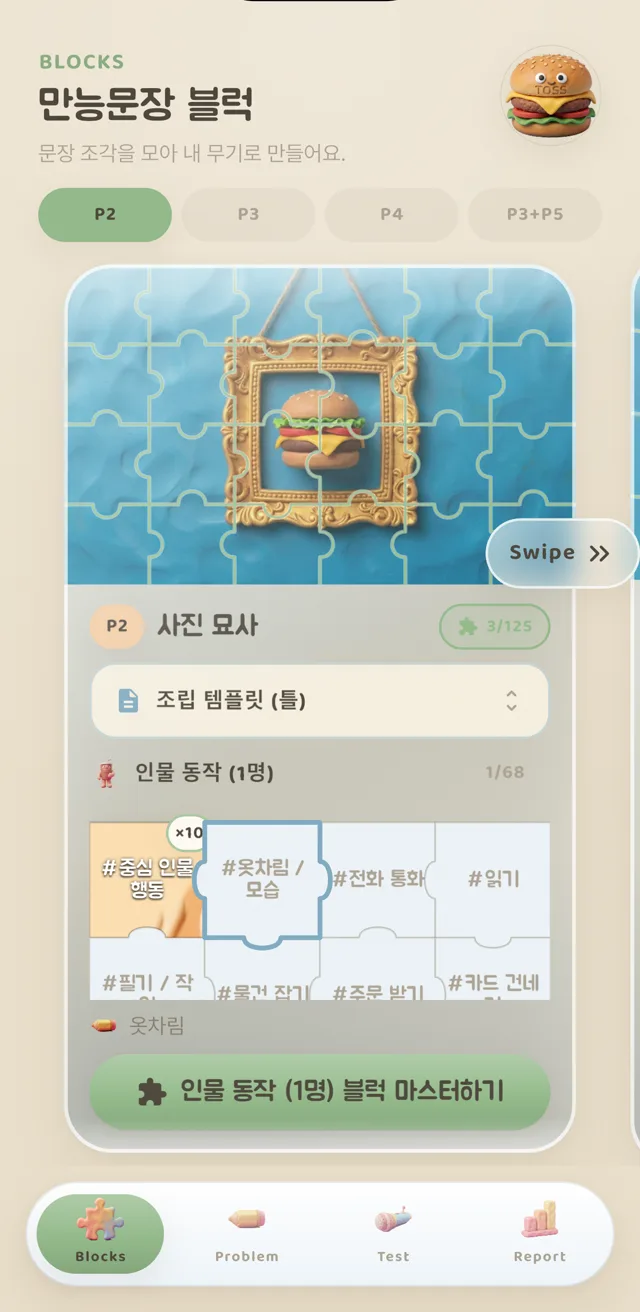
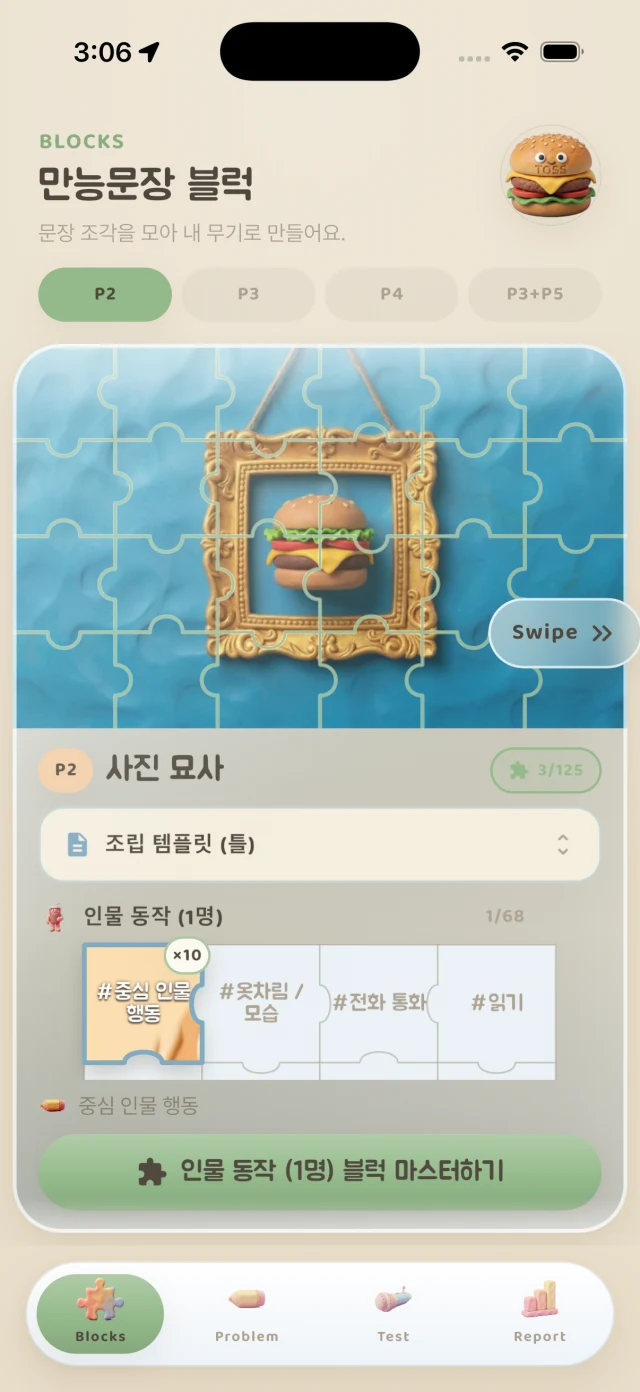
site: iOS launch state, new 1.1.4 screenshots, real-score proof section
The site still read as pre-launch ("iOS & Android 출시 준비 중", email
signup) even though iOS is live. Switch it to a download page and add
the evidence section.

- Store badges: App Store (live, id6788353969) in the hero, the nav CTA
  and the closing CTA; Google Play shown as an explicit "출시 준비 중"
  state rather than a dead link, with an opt-in mail link at the bottom.
- Screenshots refreshed to the 1.1.4 build (blocks / model answer /
  shadowing / exam). Intrinsic size changed 640x1312 -> 640x1392, so the
  width+height attributes moved with them to avoid layout shift.
- New #proof section built on a real TOEIC Speaking score report:
  IM3 (130) on 2026-06-13 -> AL (160) on 2026-06-21, an 8-day gap.
  The 수험번호 on both rows are redacted, and the capture is cropped to
  the score table so no YBM/ETS logo implies endorsement. Copy states
  the result in the site's own voice and carries a "results vary / no
  score guarantee" note. No testimonial quotes were invented; there is a
  marked placeholder for real ones.

diff --git a/index.html b/index.html
@@ -726,6 +726,58 @@
   .reveal { opacity: 0; transform: translateY(22px); transition: opacity .7s var(--ease-settle), transform .7s var(--ease-settle); }
   .reveal.in { opacity: 1; transform: none; }
   @media (prefers-reduced-motion: reduce) { .reveal { opacity: 1; transform: none; transition: none; } }
+  /* ---- Store badges (iOS live · Play coming soon) ---- */
+  .store-badges { display: flex; flex-wrap: wrap; gap: 12px; align-items: center; margin-top: 22px; }
+  .badge-store {
+    display: inline-flex; align-items: center; gap: 11px;
+    padding: 11px 18px 11px 16px; border-radius: 16px;
+    background: linear-gradient(160deg, #4a443a, #322e28);
+    color: #FDF9F2; text-decoration: none; border: 1px solid rgba(0,0,0,.28);
+    box-shadow: 0 8px 18px -8px rgba(78,72,61,.55), inset 0 1px 1px rgba(255,255,255,.16);
+    transition: transform .22s var(--ease-playful), box-shadow .22s ease;
+  }
+  .badge-store:hover { transform: translateY(-2px) scale(1.02); box-shadow: 0 14px 26px -10px rgba(78,72,61,.6), inset 0 1px 1px rgba(255,255,255,.2); }
+  .badge-store:active { transform: translateY(1px) scale(.99); }
+  .badge-store svg { flex: none; }
+  .badge-store .bs-txt { display: flex; flex-direction: column; line-height: 1.12; text-align: left; }
+  .badge-store .bs-sm { font-size: .68rem; letter-spacing: .02em; opacity: .82; }
+  .badge-store .bs-lg { font-family: "Baloo 2", sans-serif; font-weight: 700; font-size: 1.06rem; }
+  /* Play: not launched yet — visibly inert, not a dead link */
+  .badge-store.soon {
+    background: var(--paper); color: var(--ink-soft);
+    border: 1px dashed rgba(78,72,61,.28); box-shadow: none; cursor: default;
+  }
+  .badge-store.soon:hover { transform: none; box-shadow: none; }
+  .badge-store.soon .bs-lg { color: var(--ink); }
+
+  /* ---- Proof: real score report ---- */
+  .proof-grid { display: grid; grid-template-columns: minmax(0, .92fr) minmax(0, 1fr); gap: clamp(28px, 5vw, 64px); align-items: center; }
+  @media (max-width: 860px) { .proof-grid { grid-template-columns: 1fr; } }
+  .proof-shot {
+    position: relative; background: var(--paper-hi); padding: 14px; border-radius: 20px;
+    border: 1px solid var(--line); rotate: -1.4deg;
+    box-shadow: 0 22px 44px -20px rgba(78,72,61,.42), inset 0 1px 1px rgba(255,255,255,.7);
+  }
+  .proof-shot img { display: block; width: 100%; height: auto; border-radius: 12px; }
+  .proof-shot::before {
+    content: "실제 성적표"; position: absolute; top: -14px; left: 50%; translate: -50% 0;
+    font-family: "Nanum Pen Script", cursive; font-size: 1.15rem; color: var(--ink);
+    background: var(--mark); padding: 2px 16px; border-radius: 6px; rotate: -1.5deg;
+    box-shadow: 0 4px 10px -5px rgba(78,72,61,.5);
+  }
+  .delta-row { display: flex; flex-wrap: wrap; gap: 12px; margin: 22px 0 6px; }
+  .delta {
+    flex: 1 1 128px; background: var(--card); border: 1px solid var(--line);
+    border-radius: var(--radius-sm); padding: 14px 16px;
+    box-shadow: 0 8px 18px -14px rgba(78,72,61,.5);
+  }
+  .delta .dn { font-family: "Baloo 2", sans-serif; font-weight: 800; font-size: 1.72rem; color: var(--onion-dark); line-height: 1.1; }
+  .delta .dl { font-size: .84rem; color: var(--ink-soft); margin-top: 3px; }
+  .grade-jump { display: inline-flex; align-items: center; gap: 10px; flex-wrap: wrap; margin-top: 6px; }
+  .grade-chip { font-family: "Baloo 2", sans-serif; font-weight: 800; padding: 5px 13px; border-radius: 999px; font-size: .95rem; }
+  .grade-chip.from { background: var(--paper); color: var(--ink-soft); border: 1px solid var(--line); }
+  .grade-chip.to { background: var(--lettuce); color: #27351f; box-shadow: 0 6px 14px -8px rgba(147,185,138,.9); }
+  .proof-note { font-size: .82rem; color: var(--ink-muted); margin-top: 18px; line-height: 1.6; }
 </style>
 <noscript><style>.reveal { opacity: 1 !important; transform: none !important; }</style></noscript>
 </head>
@@ -736,11 +788,12 @@
   <div class="wrap nav-in">
     <a class="brand" href="/"><img src="/assets/logo.webp" width="36" height="36" alt="토스버거 로고" fetchpriority="high">토스버거</a>
     <nav class="nav-links" aria-label="주요">
+      <a class="hide-sm" href="#proof">실제 성적</a>
       <a class="hide-sm" href="#method">학습 방법</a>
       <a class="hide-sm" href="#blocks">블록</a>
       <a class="hide-sm" href="#exam">실전·진단</a>
       <a class="hide-sm" href="#pricing">요금</a>
-      <a class="nav-cta" href="mailto:support@tosburger.com?subject=토스버거 출시 소식 받기">출시 소식 받기</a>
+      <a class="nav-cta" href="https://apps.apple.com/kr/app/id6788353969">App Store에서 받기</a>
     </nav>
   </div>
 </header>
@@ -755,9 +808,20 @@
         <p class="lead">즉흥 영작은 그만. 시험에 실제로 나오는 정형 표현 ‘조각’을 외우고, 상황에 맞게 조립해 말하는 법을 훈련하세요.</p>
         <div class="cta">
           <a class="btn btn-primary" href="#method">학습 방법 보기</a>
-          <a class="btn btn-ghost" href="#exam">실전·AI 진단</a>
+          <a class="btn btn-ghost" href="#proof">실제 성적 보기</a>
         </div>
-        <p class="note"><span class="pill"><span class="dot"></span>iOS &amp; Android 출시 준비 중</span></p>
+        <div class="store-badges">
+          <a class="badge-store" href="https://apps.apple.com/kr/app/id6788353969"
+             aria-label="App Store에서 토스버거 다운로드">
+            <svg width="24" height="24" viewBox="0 0 24 24" fill="currentColor" aria-hidden="true"><path d="M16.36 12.78c.02-2.2 1.8-3.26 1.88-3.31-1.02-1.5-2.61-1.7-3.18-1.72-1.35-.14-2.64.8-3.33.8-.69 0-1.75-.78-2.87-.76-1.48.02-2.84.86-3.6 2.18-1.53 2.66-.39 6.6 1.1 8.76.73 1.06 1.6 2.25 2.74 2.2 1.1-.04 1.52-.71 2.85-.71 1.33 0 1.7.71 2.87.69 1.18-.02 1.93-1.08 2.65-2.14.84-1.23 1.18-2.42 1.2-2.48-.03-.01-2.3-.88-2.32-3.5zM14.2 6.02c.6-.74 1.01-1.75.9-2.77-.87.04-1.94.59-2.57 1.31-.56.64-1.06 1.68-.93 2.67.97.08 1.98-.49 2.6-1.21z"/></svg>
+            <span class="bs-txt"><span class="bs-sm">지금 다운로드</span><span class="bs-lg">App Store</span></span>
+          </a>
+          <span class="badge-store soon" aria-label="Google Play 출시 준비 중">
+            <svg width="22" height="22" viewBox="0 0 24 24" fill="currentColor" aria-hidden="true"><path d="M3.6 2.3c-.24.25-.38.64-.38 1.15v17.1c0 .51.14.9.38 1.15l.06.06 9.58-9.58v-.23L3.66 2.24l-.06.06zm12.85 6.4L13.9 10.3v.01L4.32 1.96l.14-.08 11.99 6.82zM4.46 22.12l9.44-9.44 2.55 2.55-11.99 6.82-.14-.07zm12.9-6.34l-2.7-2.7 2.7-2.7 3.13 1.78c.9.51.9 1.33 0 1.84l-3.13 1.78z"/></svg>
+            <span class="bs-txt"><span class="bs-sm">Google Play</span><span class="bs-lg">출시 준비 중</span></span>
+          </span>
+        </div>
+        <p class="note"><span class="pill"><span class="dot"></span>iOS 출시 완료 · Android 곧 출시</span></p>
       </div>
       <div class="fig">
         <span class="blob a" aria-hidden="true"></span>
@@ -765,7 +829,7 @@
         <span class="chip-float c1" aria-hidden="true"><span class="pz">🧩</span> 조각 암기</span>
         <span class="chip-float c2" aria-hidden="true"><span class="pz">🍔</span> 조립 완성</span>
         <div class="device float">
-          <img src="/assets/shot-blocks.webp" width="640" height="1312" fetchpriority="high"
+          <img src="/assets/shot-blocks.webp" width="640" height="1392" fetchpriority="high"
                alt="토스버거 앱의 블록 화면 — 파트별 탭과 만능문장 블록 카드, 퍼즐 조각으로 표현된 표현 인벤토리">
         </div>
       </div>
@@ -794,6 +858,51 @@
         <h2>오래 끄는 시험이 아닙니다</h2>
         <p class="philo-lead">시험 전략을 세우고 신박한 스크립트를 짤 시간은 없어요. <strong>노래처럼 입에 익히고, 한두 달 안에 졸업하세요.</strong></p>
         <p class="philo-kicker">모두가 똑같은 답을 해도 — <span class="hl-in">입에 익은 듯 자연스러우면 만점</span>을 주는 시험이니까요.</p>
+      </div>
+    </div>
+  </section>
+
+  <section id="proof" class="band">
+    <div class="wrap">
+      <div class="sec-head">
+        <span class="eyebrow">결과로 증명합니다</span>
+        <h2>8일 만에 <span class="hl">IM3 → AL</span></h2>
+        <p>조각을 외우고 조립하는 훈련만으로, 재응시 한 번에 등급이 올라갔습니다.</p>
+      </div>
+
+      <div class="proof-grid">
+        <div class="proof-shot reveal">
+          <img src="/assets/proof-score.webp" width="900" height="586" loading="lazy"
+               alt="실제 토익스피킹 성적 조회 화면 — 2026년 6월 13일 Intermediate Mid 3(130점), 8일 뒤인 6월 21일 Advanced Low(160점). 수험번호는 가려져 있다.">
+        </div>
+
+        <div class="reveal">
+          <span class="tag">Real Score Report</span>
+          <h2 style="margin-top:10px;">130점에서 160점으로</h2>
+          <p class="lead">2026년 6월 13일 <strong>Intermediate Mid 3 (130점)</strong>.
+             그리고 8일 뒤인 6월 21일, 같은 응시자가 <strong>Advanced Low (160점)</strong>.
+             그 사이에 한 건 새 스크립트를 짠 게 아니라, <strong>이미 있는 조각을 입에 붙이고 조립한 것</strong>뿐이었어요.</p>
+
+          <div class="grade-jump">
+            <span class="grade-chip from">IM3 · 130</span>
+            <span aria-hidden="true" style="color:var(--ink-muted);font-weight:800;">→</span>
+            <span class="grade-chip to">AL · 160</span>
+          </div>
+
+          <div class="delta-row">
+            <div class="delta"><div class="dn">8일</div><div class="dl">두 시험 사이<br>실제 간격</div></div>
+            <div class="delta"><div class="dn">+30</div><div class="dl">Speaking Score<br>상승 폭</div></div>
+            <div class="delta"><div class="dn">1등급</div><div class="dl">IM3 → AL<br>등급 상승</div></div>
+          </div>
+
+          <!-- 실제 사용자 후기를 받으면 이 자리에 그대로 넣으세요.
+               지어낸 후기는 넣지 않았습니다 (아래 성적표만 실제 기록입니다). -->
+
+          <p class="proof-note">
+            위 이미지는 실제 성적 조회 화면을 그대로 캡처한 것이며, 개인정보 보호를 위해 수험번호만 가렸습니다.
+            학습 효과는 응시자의 기존 실력·학습량에 따라 다를 수 있으며, 특정 점수를 보장하지 않습니다.
+          </p>
+        </div>
       </div>
     </div>
   </section>
@@ -834,8 +943,8 @@
     <div class="wrap feature">
       <div class="fig">
         <div class="device">
-          <img src="/assets/shot-question.webp" width="640" height="1312" loading="lazy"
-               alt="사진 묘사 문제 화면 — 클레이 회의실 그림과 함께, 도입·사람·사물·마무리 블록으로 조립된 모범답변">
+          <img src="/assets/shot-question.webp" width="640" height="1392" loading="lazy"
+               alt="정기시험 복원 세트의 모범답안 화면 — 클레이 화원 그림 문제와 함께, 도입·인물·사물·마무리 블록으로 조립된 답변">
         </div>
       </div>
       <div>
@@ -869,7 +978,7 @@
     <div class="wrap feature rev">
       <div class="fig">
         <div class="device">
-          <img src="/assets/shot-shadowing.webp" width="640" height="1312" loading="lazy"
+          <img src="/assets/shot-shadowing.webp" width="640" height="1392" loading="lazy"
                alt="블록 섀도잉 드릴 화면 — 억양 곡선과 단어별 한글 발음 표기, 손글씨 메모 힌트가 함께 표시된다">
         </div>
         
@@ -923,7 +1032,7 @@
       <div class="feature">
         <div class="fig">
           <div class="device">
-            <img src="/assets/shot-exam.webp" width="640" height="1275" loading="lazy"
+            <img src="/assets/shot-exam.webp" width="640" height="1392" loading="lazy"
                  alt="실전 모의고사 화면 — 어두운 시험 모드에서 GET READY 준비 타이머와 클레이 그림 문제 카드가 보인다">
           </div>
         </div>
@@ -1056,9 +1165,20 @@
   <section>
     <div class="wrap">
       <div class="final reveal">
-        <h2>출시 소식을 가장 먼저 받아보세요</h2>
-        <p>토스버거는 iOS와 Android 출시를 준비하고 있어요. 준비되면 바로 알려드릴게요.</p>
-        <a class="btn btn-primary" href="mailto:support@tosburger.com?subject=토스버거 출시 소식 받기">출시 소식 받기</a>
+        <h2>지금 App Store에서 받으세요</h2>
+        <p>토스버거는 iOS에 출시됐어요. Android는 출시 준비 중이며, 준비되면 바로 알려드릴게요.</p>
+        <div class="store-badges" style="justify-content:center;">
+          <a class="badge-store" href="https://apps.apple.com/kr/app/id6788353969"
+             aria-label="App Store에서 토스버거 다운로드">
+            <svg width="24" height="24" viewBox="0 0 24 24" fill="currentColor" aria-hidden="true"><path d="M16.36 12.78c.02-2.2 1.8-3.26 1.88-3.31-1.02-1.5-2.61-1.7-3.18-1.72-1.35-.14-2.64.8-3.33.8-.69 0-1.75-.78-2.87-.76-1.48.02-2.84.86-3.6 2.18-1.53 2.66-.39 6.6 1.1 8.76.73 1.06 1.6 2.25 2.74 2.2 1.1-.04 1.52-.71 2.85-.71 1.33 0 1.7.71 2.87.69 1.18-.02 1.93-1.08 2.65-2.14.84-1.23 1.18-2.42 1.2-2.48-.03-.01-2.3-.88-2.32-3.5zM14.2 6.02c.6-.74 1.01-1.75.9-2.77-.87.04-1.94.59-2.57 1.31-.56.64-1.06 1.68-.93 2.67.97.08 1.98-.49 2.6-1.21z"/></svg>
+            <span class="bs-txt"><span class="bs-sm">지금 다운로드</span><span class="bs-lg">App Store</span></span>
+          </a>
+          <a class="badge-store soon" href="mailto:support@tosburger.com?subject=토스버거 Android 출시 소식 받기"
+             aria-label="Android 출시 소식 받기">
+            <svg width="22" height="22" viewBox="0 0 24 24" fill="currentColor" aria-hidden="true"><path d="M3.6 2.3c-.24.25-.38.64-.38 1.15v17.1c0 .51.14.9.38 1.15l.06.06 9.58-9.58v-.23L3.66 2.24l-.06.06zm12.85 6.4L13.9 10.3v.01L4.32 1.96l.14-.08 11.99 6.82zM4.46 22.12l9.44-9.44 2.55 2.55-11.99 6.82-.14-.07zm12.9-6.34l-2.7-2.7 2.7-2.7 3.13 1.78c.9.51.9 1.33 0 1.84l-3.13 1.78z"/></svg>
+            <span class="bs-txt"><span class="bs-sm">Android</span><span class="bs-lg">출시 알림 받기</span></span>
+          </a>
+        </div>
         <p class="disc">TOEIC is a registered trademark of ETS. This application and website are not endorsed or approved by ETS.</p>
       </div>
     </div>
